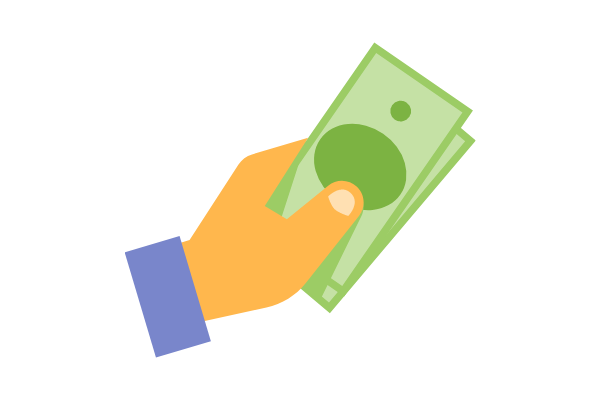
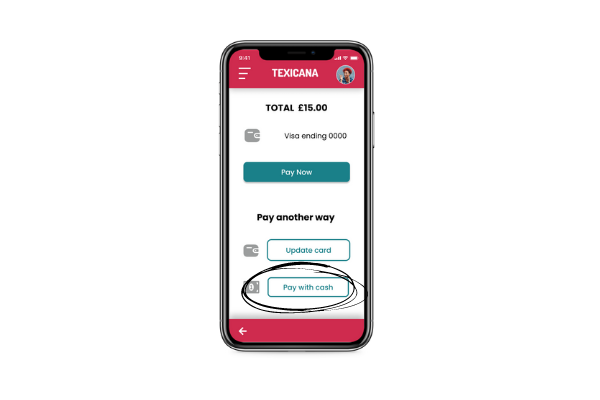
Texicana case study updates

Changed region(s): [[0.21, 0.09, 0.81, 0.9]]

diff --git a/texicana.html b/texicana.html
@@ -436,7 +436,7 @@
         </div>
       </div>
         <div class="blue-section">
-          <h2 class="small-heading">Insights - Study #1</h2>
+          <h2 class="small-heading">Insights/Recommendations - Study #1</h2>
         </div>
         <div class="container-fluid">
           <div class="card-deck">
@@ -444,7 +444,7 @@
               <div class="card-body">
                 <h2 class="card-title pink">1</h2>
                 <h2 class="card-title how-might">Payment Confirmation</h2>
-                <p class="card-text">Users expect to see a confirmation page before their payment is taken in order to confirm amount and payment method.</p>
+                <p class="card-text">Users expect to see a confirmation page before their payment is taken in order to confirm amount and payment method. On the cart page change button to "Confirm Order" and add a payment confirmation page.</p>
               </div>
               <img class="card-img-bottom chuck-img" src="images/texicanacs/confirmation.png" alt="payment confirmation illustration">
           </div>
@@ -452,7 +452,7 @@
                 <div class="card-body">
                   <h2 class="card-title pink">2</h2>
                   <h2 class="card-title how-might">Payment Update</h2>
-                  <p class="card-text">Users want an easier way to update payment information.</p>
+                  <p class="card-text">Users want an easier way to update payment information. On the payment confirmation page add an option to update payment method.</p>
                 </div>
                 <img class="card-img-bottom chuck-img" src="images/texicanacs/change-payment.png" alt="change payment illustration">
             </div>
@@ -460,14 +460,14 @@
               <div class="card-body">
                 <h2 class="card-title pink">3</h2>
                 <h2 class="card-title how-might">Cash Payments</h2>
-                <p class="card-text">Users want the option to pay with cash.</p>
+                <p class="card-text">Users want the option to pay with cash. On the payment confirmation page add the option to pay with cash at the food truck window.</p>
               </div>
               <img class="card-img-bottom chuck-img" src="images/texicanacs/cash.png" alt="cash illustration">
             </div>
           </div>
         </div>
         <div class="blue-section">
-          <h2 class="small-heading">Insights - Study #2</h2>
+          <h2 class="small-heading">Insights/Recommendations - Study #2</h2>
         </div>
         <div class="container-fluid">
           <div class="card-deck">
@@ -573,15 +573,37 @@
             </div>
           </div>
         </div>
-        <div class="pink-section">
+        <div class="less-padding pink-section">
           <h2 class="sub-heading">What I Learned</h2>
         </div>
+        <div class="problem-tex container-fluid">
+          <div class="card-deck">
+              <div class="card border-secondary">
+                <div class="card-body">
+                  <h2 class="card-title blue-section how-might">Mistake 1</h2>
+                  <p class="card-text">I didn't do enough research. I should have done a survey to back up the findings from the interviews. This would have made my design decisions easier to explain and defend to stakeholders. Research is the foundation of the design. Going forward I will always spend more time on the research phase.</p>
+                </div>
+            </div>
+              <div class="card border-secondary">
+                <div class="card-body">
+                  <h2 class="card-title blue-section how-might">Mistake 2</h2>
+                  <p class="card-text">Texicana is a concept business. If I had chosen a real food truck then I would have been able to do even more user research by looking at reviews.</p>
+                </div>
+            </div>
+            <div class="card border-secondary">
+              <div class="card-body">
+                <h2 class="card-title blue-section how-might">Mistake 3</h2>
+                <p class="card-text">I didnt pay enough attention to the research when I started wireframing. I noted the need for cash payments in my user journey, but I didn't have that option in my first prototype. Going forward I will keep my research front and center while I'm designing.</p>
+              </div>
+          </div>
+            </div>
+            </div>
         <div class="container-fluid">
           <p>I intially started the Google UX Design course just to try to gain skills that would compliment my front-end development skills. By the prototyping stage of this project I knew that UX design was the path for me. I absolutely love it. I learned how to complete the entire UX design process from empathizing with people to prototyping and testing. I loved creating Georgina's story and using it to inform my design. I especially enjoyed building the prototype.</p>
         </div>
         <div class="blue-section">
           <h2 class="sub-heading">Thank you!</h2>
-          <h3 class="thankyou">Thank you for taking the time to review this case study. If you have any questions or feedback please get in touch. You can email me at the link below.</h3>
+          <p class="thankyou">Thank you for taking the time to review this case study. If you have any questions or feedback please get in touch. You can email me at the link below.</p>
         </div>
       </section>
 

diff --git a/style.css b/style.css
@@ -413,6 +413,10 @@ footer {
     box-shadow: 0 4px 8px 0 rgba(0, 0, 0, 0.2), 0 6px 20px 0 rgba(0, 0, 0, 0.19);
 }
 
+div.less-padding.pink-section {
+    margin-bottom: 2%;
+}
+
 .tex-prompt {
     padding: 3% 10% 0;
 }
@@ -556,7 +560,6 @@ footer {
 }
 
 .thankyou {
-    font-size: 1.5rem;
     font-weight: 200;
     padding: 2% 10%;
 }
@@ -795,12 +798,12 @@ div.container-fluid.row {
     }
 
     .heading {
-        padding: 8% 0 10% 20%;
+        padding: 8% 0 10% 25%;
         /* text-align: center; */
     }
 
     .work {
-        padding: 0 20%;
+        padding: 0 25%;
     }
 
     .about-heading {
@@ -813,6 +816,12 @@ div.container-fluid.row {
 
     .cv {
         padding-left: 21%;
+    }
+}
+
+@media (min-width: 1025px) {
+    .mockup {
+        width: 50%;
     }
 }
 

diff --git a/wiin.html b/wiin.html
@@ -54,7 +54,7 @@
           <div class="container-fluid chuck-heading">
             <h1 class="wiin-blue wiin-heading chuck-title">Work In Industry Now</h1>
             <h2 class="white subtitle">An App for Finding Opportunities to "Earn as you Learn"</h2>
-            <img class="wiin-hero" src="images/wiin/mockup-hero.png" alt="wiin-app-mockups">
+            <img class="wiin-hero mockup" src="images/wiin/mockup-hero.png" alt="wiin-app-mockups">
             </div>
         </div>
       
